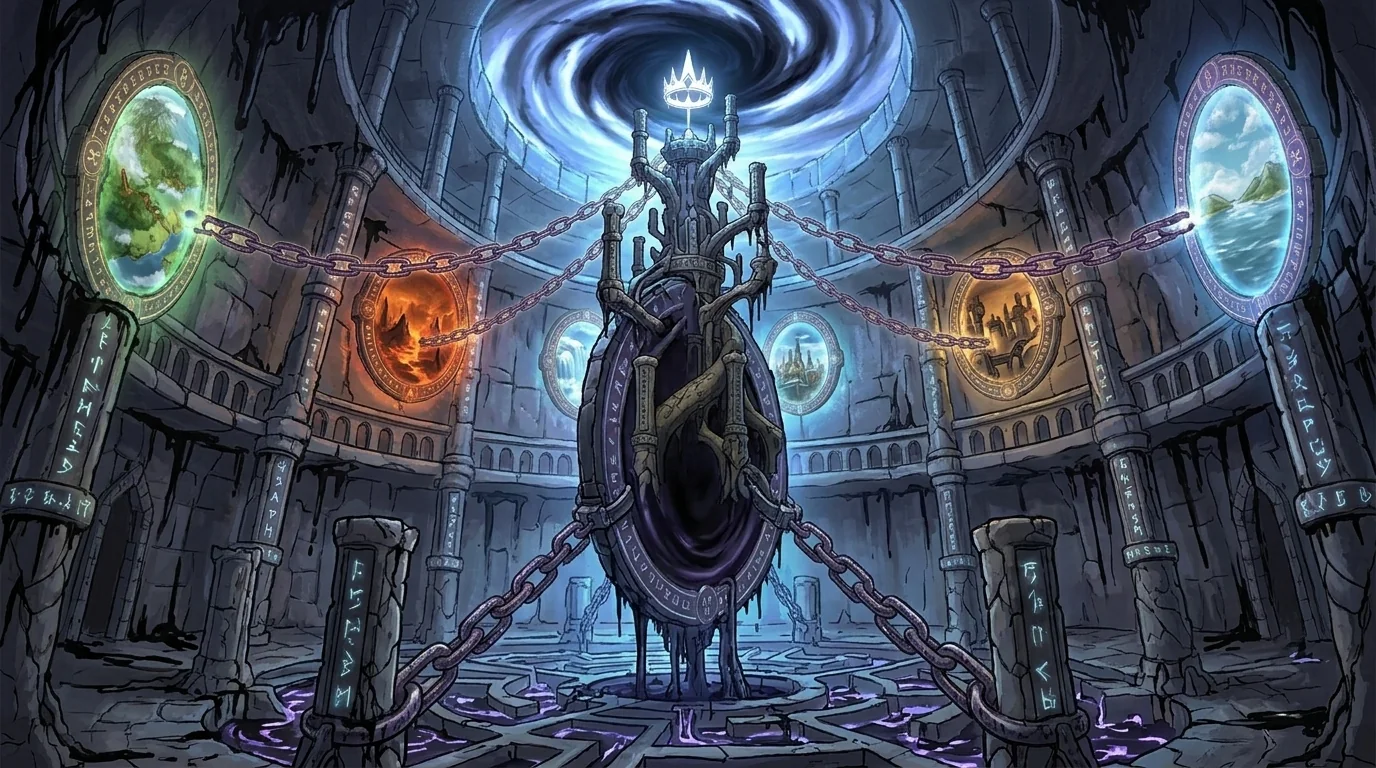
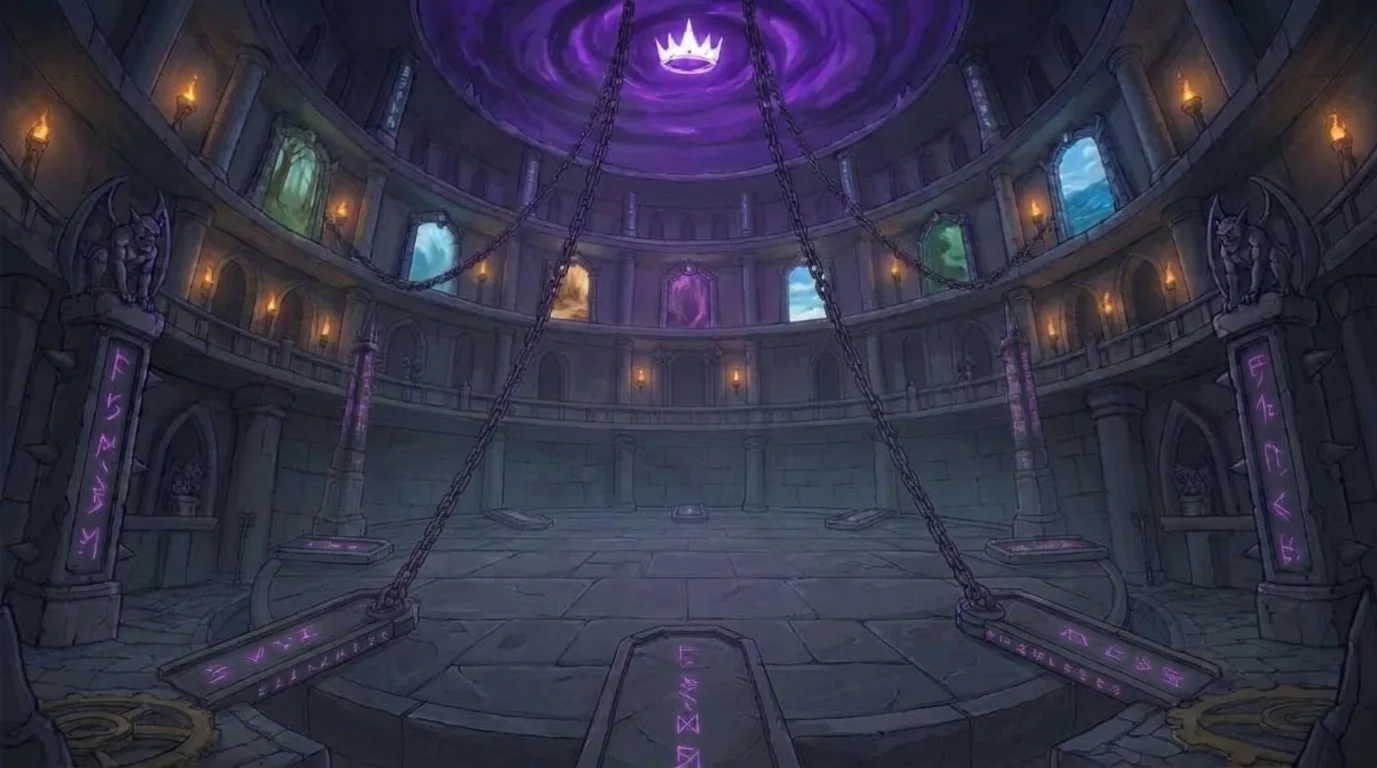
แมพ 2 มีหอคอย 100 ชั้นของตัวเอง + ฉากใหม่ หอคอยแมพ 2 และหอคอยรวมบอส
Claude-Session: https://claude.ai/code/session_01K5hYZCSMYKBWhWem2dEZti

diff --git a/tower.js b/tower.js
@@ -8,7 +8,7 @@
 // เพิ่มทวีปใหม่: ใส่ใน WORLDS แล้วเพิ่มด่านใน ZONES (game.js) โดยใส่ world: '<id>' และ pos: [ซ้าย%, บน%] บนภาพแผนที่
 const WORLDS = [
   { id: 'w1', n: 'ทวีปแรก', icon: '🌍', map: 'bg/worldmap.webp', tower: [50, 44], wb: [50, 63] },
-  { id: 'w2', n: 'ทวีปที่ 2: ดินแดนใหม่', icon: '🌌', map: 'bg/worldmap2.webp', need: 'w1', wb: [50, 60], rush: [50, 32] },
+  { id: 'w2', n: 'ทวีปที่ 2: ดินแดนใหม่', icon: '🌌', map: 'bg/worldmap2.webp', need: 'w1', tower: [44, 36], wb: [50, 60], rush: [57, 31] },
 ];
 // ตำแหน่งหมุดของทวีปแรก (เปอร์เซ็นต์ ซ้าย, บน)
 const MAP_POS = {
@@ -240,16 +240,19 @@ const TOWER_DIFFS = {
   hard: { name: 'ยาก', icon: '🟠', world: 'hard', base: 32, per: 0.8, frag: 0.08, bossFrag: 2, need: ['normal', 50] },
   hell: { name: 'นรก', icon: '🔴', world: 'advanced', base: 62, per: 0.8, frag: 0.12, bossFrag: 3, need: ['hard', 50] },
 };
-const towerLv = (k, f) => Math.round(TOWER_DIFFS[k].base + TOWER_DIFFS[k].per * f);
-const towerTier = (k, f) => clamp(Math.round(towerLv(k, f) / 2.8), 1, 32);
-const towerZone = (f) => worldZoneIdx('w1')[Math.floor((f - 1) / 10) % 10];
-const towerOpen = (k) => { const n = TOWER_DIFFS[k].need; return !n || (S.tower[n[0]] || 0) >= n[1]; };
+/* หอคอยแยกตามแมพ: w1 = S.tower, w2 = S.tower2 (มอนสเตอร์แมพ 2 · เลเวล +30) */
+const curTW = () => (S && S.world === 'w2' ? 'w2' : 'w1');
+const tp = (w) => (w === 'w2' ? (S.tower2 || (S.tower2 = { normal: 0, hard: 0, hell: 0 })) : S.tower);
+const towerLv = (k, f, w = curTW()) => Math.round(TOWER_DIFFS[k].base + TOWER_DIFFS[k].per * f + (w === 'w2' ? 30 : 0));
+const towerTier = (k, f, w = curTW()) => clamp(Math.round(towerLv(k, f, w) / 2.8), 1, 40);
+const towerZone = (f, w = curTW()) => worldZoneIdx(w)[Math.floor((f - 1) / 10) % 10];
+const towerOpen = (k, w = curTW()) => { const n = TOWER_DIFFS[k].need; return !n || (tp(w)[n[0]] || 0) >= n[1]; };
 let towerPick = null;
 
-function towerEnemy(k, floor) {
+function towerEnemy(k, floor, w) {
   const td = TOWER_DIFFS[k], dd = DIFFS[td.world];
-  const z = ZONES[towerZone(floor)];
-  const Z = towerLv(k, floor);
+  const z = ZONES[towerZone(floor, w)];
+  const Z = towerLv(k, floor, w);
   const mb = monsterBase(Z);
   const boss = floor % 10 === 0;
   let e;
@@ -264,22 +267,23 @@ function towerEnemy(k, floor) {
   e.exp *= dd.reward; e.gold *= dd.reward;
   for (const key of ['maxHp', 'atk', 'def', 'exp', 'gold']) e[key] = Math.round(e[key]);
   e.hp = e.maxHp; e.lv = Z;
-  return { e, boss, zi: towerZone(floor) };
+  return { e, boss, zi: towerZone(floor, w) };
 }
 
-function startTower(k, floor) {
-  if (!towerOpen(k)) return;
-  floor = clamp(floor, 1, Math.min(TOWER_FLOORS, (S.tower[k] || 0) + 1));
-  const t = towerEnemy(k, floor);
-  startBattle(t.zi, t.boss, { tower: { d: k, floor }, e: t.e });
+function startTower(k, floor, w = curTW()) {
+  if (!towerOpen(k, w)) return;
+  floor = clamp(floor, 1, Math.min(TOWER_FLOORS, (tp(w)[k] || 0) + 1));
+  const t = towerEnemy(k, floor, w);
+  startBattle(t.zi, t.boss, { tower: { d: k, floor, w }, e: t.e });
 }
 
 /* รางวัลเมื่อชนะในหอคอย (เรียกจาก victory) */
 function towerWin(rewards) {
   const t = B.tower, td = TOWER_DIFFS[t.d], dd = DIFFS[td.world];
-  const tier = towerTier(t.d, t.floor);
+  const w = t.w || 'w1', P2 = tp(w);
+  const tier = towerTier(t.d, t.floor, w);
   rewards.tower = t;
-  if (t.floor > (S.tower[t.d] || 0)) { S.tower[t.d] = t.floor; rewards.towerNew = true; }
+  if (t.floor > (P2[t.d] || 0)) { P2[t.d] = t.floor; rewards.towerNew = true; }
   if (B.isBoss) {
     rewards.items.push(makeGear(tier, dd.bossMinR, dd.maxR));
     fragDrop(rewards, td.bossFrag);
@@ -294,25 +298,26 @@ function towerWin(rewards) {
 }
 
 function renderTowerPanel() {
+  const w = curTW();
   const k = S.towerD;
-  const best = S.tower[k] || 0;
+  const best = tp(w)[k] || 0;
   const maxPick = Math.min(TOWER_FLOORS, best + 1);
   if (towerPick === null || towerPick > maxPick) towerPick = maxPick;
-  const f = towerPick, boss = f % 10 === 0, z = ZONES[towerZone(f)];
+  const f = towerPick, boss = f % 10 === 0, z = ZONES[towerZone(f, w)];
   const td = TOWER_DIFFS[k];
   const tabs = Object.entries(TOWER_DIFFS).map(([id, x]) => {
-    const open = towerOpen(id);
-    return `<button class="${k === id ? 'on' : ''}" data-a="towerd" data-v="${id}" ${open ? '' : 'disabled'}>${open ? x.icon : '🔒'} ${x.name}<span class="subtle">${S.tower[id] || 0}/${TOWER_FLOORS}</span></button>`;
+    const open = towerOpen(id, w);
+    return `<button class="${k === id ? 'on' : ''}" data-a="towerd" data-v="${id}" ${open ? '' : 'disabled'}>${open ? x.icon : '🔒'} ${x.name}<span class="subtle">${tp(w)[id] || 0}/${TOWER_FLOORS}</span></button>`;
   }).join('');
   const bs = boss ? (f === TOWER_FLOORS && z.bossFinal ? z.bossFinal : z.boss) : null;
   return `<div class="card tower-card">
-    <h3 style="margin-top:0">🗼 หอคอย 100 ชั้น</h3>
+    <h3 style="margin-top:0">🗼 หอคอย 100 ชั้น${w === 'w2' ? ' · แมพ 2' : ''}</h3>
     <div class="tower-tabs">${tabs}</div>
-    ${Object.entries(TOWER_DIFFS).filter(([id]) => !towerOpen(id)).map(([id, x]) => `<div class="muted" style="font-size:12px">🔒 ${x.name}: ผ่านชั้น ${x.need[1]} ของโหมด${TOWER_DIFFS[x.need[0]].name}</div>`).join('')}
+    ${Object.entries(TOWER_DIFFS).filter(([id]) => !towerOpen(id, w)).map(([id, x]) => `<div class="muted" style="font-size:12px">🔒 ${x.name}: ผ่านชั้น ${x.need[1]} ของโหมด${TOWER_DIFFS[x.need[0]].name}</div>`).join('')}
     <div class="tower-bar"><i style="height:${best}%"></i></div>
     <div class="tower-floor">
       <button class="small" data-a="tpick" data-v="-10">⏪</button><button class="small" data-a="tpick" data-v="-1">◀</button>
-      <div><div class="tf-n">ชั้น ${f}</div><div class="muted" style="font-size:12px">Lv.${towerLv(k, f)} · ${z.icon} ${z.name}</div></div>
+      <div><div class="tf-n">ชั้น ${f}</div><div class="muted" style="font-size:12px">Lv.${towerLv(k, f, w)} · ${z.icon} ${z.name}</div></div>
       <button class="small" data-a="tpick" data-v="1">▶</button><button class="small" data-a="tpick" data-v="10">⏩</button>
     </div>
     <div class="tf-foe">${boss ? `${monsterSVG(bs[0], 64, bs[1])}<div><b class="warn">👑 ชั้นบอส: ${bs[0]}</b><div class="muted" style="font-size:12px">ได้ 💠 เศษเลเจนดารี ${td.bossFrag} ชิ้นแน่นอน${f === TOWER_FLOORS ? ' · ผ่านครั้งแรกได้อุปกรณ์เลเจนดารีทันที!' : ''}</div></div>`
@@ -462,9 +467,9 @@ function towerClick(a, v, el) {
     case 'rnext': startRush(B.rush.floor + 1); return 'battle';
     case 'wbfight': startWB(B && B.wb ? B.wb : S.world); return 'battle';
     case 'towerd': if (towerOpen(v)) { S.towerD = v; towerPick = null; save(); } return true;
-    case 'tpick': { const max = Math.min(TOWER_FLOORS, (S.tower[S.towerD] || 0) + 1); towerPick = clamp((towerPick || max) + +v, 1, max); return true; }
+    case 'tpick': { const max = Math.min(TOWER_FLOORS, (tp(curTW())[S.towerD] || 0) + 1); towerPick = clamp((towerPick || max) + +v, 1, max); return true; }
     case 'tower': startTower(S.towerD, +v); return 'battle';
-    case 'tnext': startTower(B.tower.d, B.tower.floor + 1); return 'battle';
+    case 'tnext': startTower(B.tower.d, B.tower.floor + 1, B.tower.w); return 'battle';
     case 'legcraft': {
       const L = legendDef(v); if (!L) return true;
       if ((S.frags[v] || 0) < LEGEND_NEED || S.gold < LEGEND_GOLD) return true;

diff --git a/sw.js b/sw.js
@@ -1,7 +1,7 @@
 /* Service worker: เล่นได้แม้ไม่มีเน็ต
    ไฟล์เกม = ดึงจากเน็ตก่อน (ได้เวอร์ชันล่าสุดเสมอ) ถ้าออฟไลน์ใช้ของที่เก็บไว้ */
-const CACHE = 'thai-rpg-v51';
-const CORE = ['./', 'index.html', 'style.css', 'hero.js', 'monsters.js', 'battle2d.js', 'features.js', 'cosmetics.js', 'tower.js', 'game.js', 'bg/worldmap.webp', 'bg/wb1.webp', 'bg/wb2.webp', 'bg/tower1.webp', 'bg/tower2.webp', 'bg/worldmap2.webp', ...['forest','cave','desert','volcano','swamp','ice','sea','sky','spirit','castle'].map((z) => `bg/${z}.webp`),
+const CACHE = 'thai-rpg-v52';
+const CORE = ['./', 'index.html', 'style.css', 'hero.js', 'monsters.js', 'battle2d.js', 'features.js', 'cosmetics.js', 'tower.js', 'game.js', 'bg/worldmap.webp', 'bg/wb1.webp', 'bg/wb2.webp', 'bg/tower1.webp', 'bg/tower2.webp', 'bg/rush.webp', 'bg/worldmap2.webp', ...['forest','cave','desert','volcano','swamp','ice','sea','sky','spirit','castle'].map((z) => `bg/${z}.webp`),
   'manifest.webmanifest', 'icon-192.png', 'icon-512.png'];
 
 self.addEventListener('install', (e) => {

diff --git a/features.js b/features.js
@@ -277,7 +277,7 @@ function scheduleAuto() {
       const st = stats();
       if (S.hp / st.hp * 100 < S.settings.stopHp) { stopAuto(`🤖 หยุดออโต้: HP ต่ำกว่า ${S.settings.stopHp}%`); render(); return; }
       const zi = B.zi, tw = B.tower;
-      autoTimer = setTimeout(() => { if (S.settings.auto && view === 'battle' && B && B.result) { if (tw) startTower(tw.d, tw.floor + 1); else startBattle(zi, false); } }, 1100 / gameSpeed());
+      autoTimer = setTimeout(() => { if (S.settings.auto && view === 'battle' && B && B.result) { if (tw) startTower(tw.d, tw.floor + 1, tw.w); else startBattle(zi, false); } }, 1100 / gameSpeed());
     } else if (B.result === 'lose') stopAuto('🤖 หยุดออโต้: พ่ายแพ้');
     return;
   }

diff --git a/battle2d.js b/battle2d.js
@@ -107,8 +107,8 @@ const SCENE = {
 /* ฉากหลัง: หอคอย > บอสโลก > ด่าน */
 function stageBg(zone, foe, isWB) {
   const b = typeof B !== 'undefined' ? B : null;
-  if (b && b.rush) return 'bg/tower2.webp';
-  if (b && b.tower) return 'bg/tower1.webp';
+  if (b && b.rush) return 'bg/rush.webp';
+  if (b && b.tower) return b.tower.w === 'w2' ? 'bg/tower2.webp' : 'bg/tower1.webp';
   const W = isWB && typeof WORLD_BOSSES !== 'undefined' ? Object.values(WORLD_BOSSES).find((w) => w.n === foe.n) : null;
   if (W && W.bg) return W.bg;
   return `bg/${zone.scene || zone.id}.webp`;

diff --git a/README.md b/README.md
@@ -27,7 +27,7 @@
   - 💀 **บอสโลกทวีปแรก "ราชันย์โครงกระดูกมรณะ"** ใต้หอคอย (เปิดเมื่อล้มจอมมาร) · 👁 **บอสโลก "เทพแห่งความว่างเปล่า"** กลางทวีปที่ 2 (เปิดเมื่อล้มบอสด่าน 10 ของทวีปที่ 2) ดรอปเศษเลเจนดารี 3–6 ชิ้น ครั้งแรกได้อุปกรณ์เลเจนดารี
 - **🗺 แผนที่โลก**: แตะเลือกด่านบนแผนที่ (`bg/worldmap.webp`, ตำแหน่งหมุดอยู่ใน `tower.js` → `MAP_POS`)
 - **🗼 หอคอย 100 ชั้น** (กลางแผนที่) 3 ระดับ: ปกติ / ยาก (ผ่านปกติชั้น 50) / นรก (ผ่านยากชั้น 50) — ทุก 10 ชั้นเป็นบอส, ชั้น 100 คือจอมมารร่างแท้, HP ไม่ฟื้นระหว่างชั้น
-- **🏛 หอคอยรวมบอส** (กลางแมพ 2): ล้มบอสทั้ง 2 แมพ + บอสโลก ต่อเนื่อง 23 ชั้น จบด้วย Final Boss (`tower.js` → `RUSH_FINAL`, ภาพชั่วคราว) · ฉากหอคอย `bg/tower1.webp` / `bg/tower2.webp`
+- **🏛 หอคอยรวมบอส** (กลางแมพ 2): ล้มบอสทั้ง 2 แมพ + บอสโลก ต่อเนื่อง 23 ชั้น จบด้วย Final Boss (`tower.js` → `RUSH_FINAL`, ภาพชั่วคราว) · ฉากหอคอย `bg/tower1.webp` (แมพ 1) / `bg/tower2.webp` (แมพ 2) / `bg/rush.webp` (รวมบอส) · แมพ 2 มีหอคอย 100 ชั้นของตัวเองด้วย (มอนแมพ 2, เลเวล +30)
 - **🌟 อุปกรณ์เลเจนดารี 10 ชิ้น** แรงกว่าเทพเจ้า: รวบรวม 💠 เศษ 10 ชิ้น + 20,000 ทอง แล้วหลอม (เศษได้จากหอคอย/บอส) · ผ่านหอคอยชั้น 100 ครั้งแรกได้ 1 ชิ้นทันที
 - **🔄 สลับอาชีพ**: แต่ละอาชีพมีเลเวลของตัวเอง สลับไปมาได้ เลเวลไม่หาย (ทอง/ไอเทม/สัตว์เลี้ยงใช้ร่วมกัน)
 - **10 ด่าน 10 บอส**: ป่า → ถ้ำ → ทะเลทราย → ภูเขาไฟ → หนองน้ำพิษ → ธารน้ำแข็ง → วิหารใต้สมุทร → เกาะลอยฟ้า → ดินแดนวิญญาณ → ปราสาทจอมมาร
